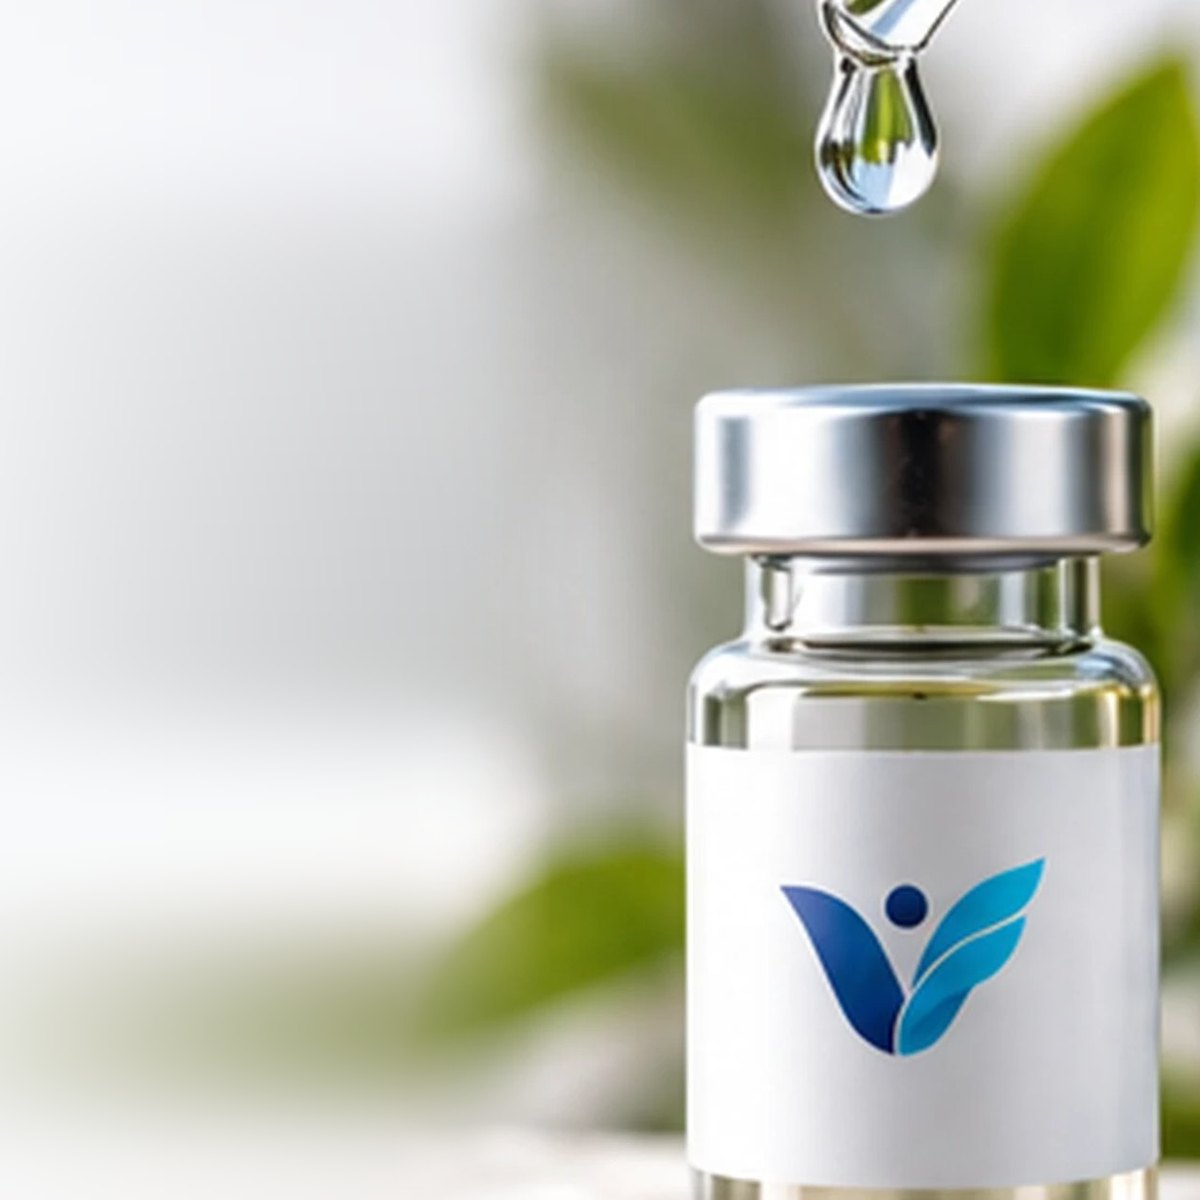
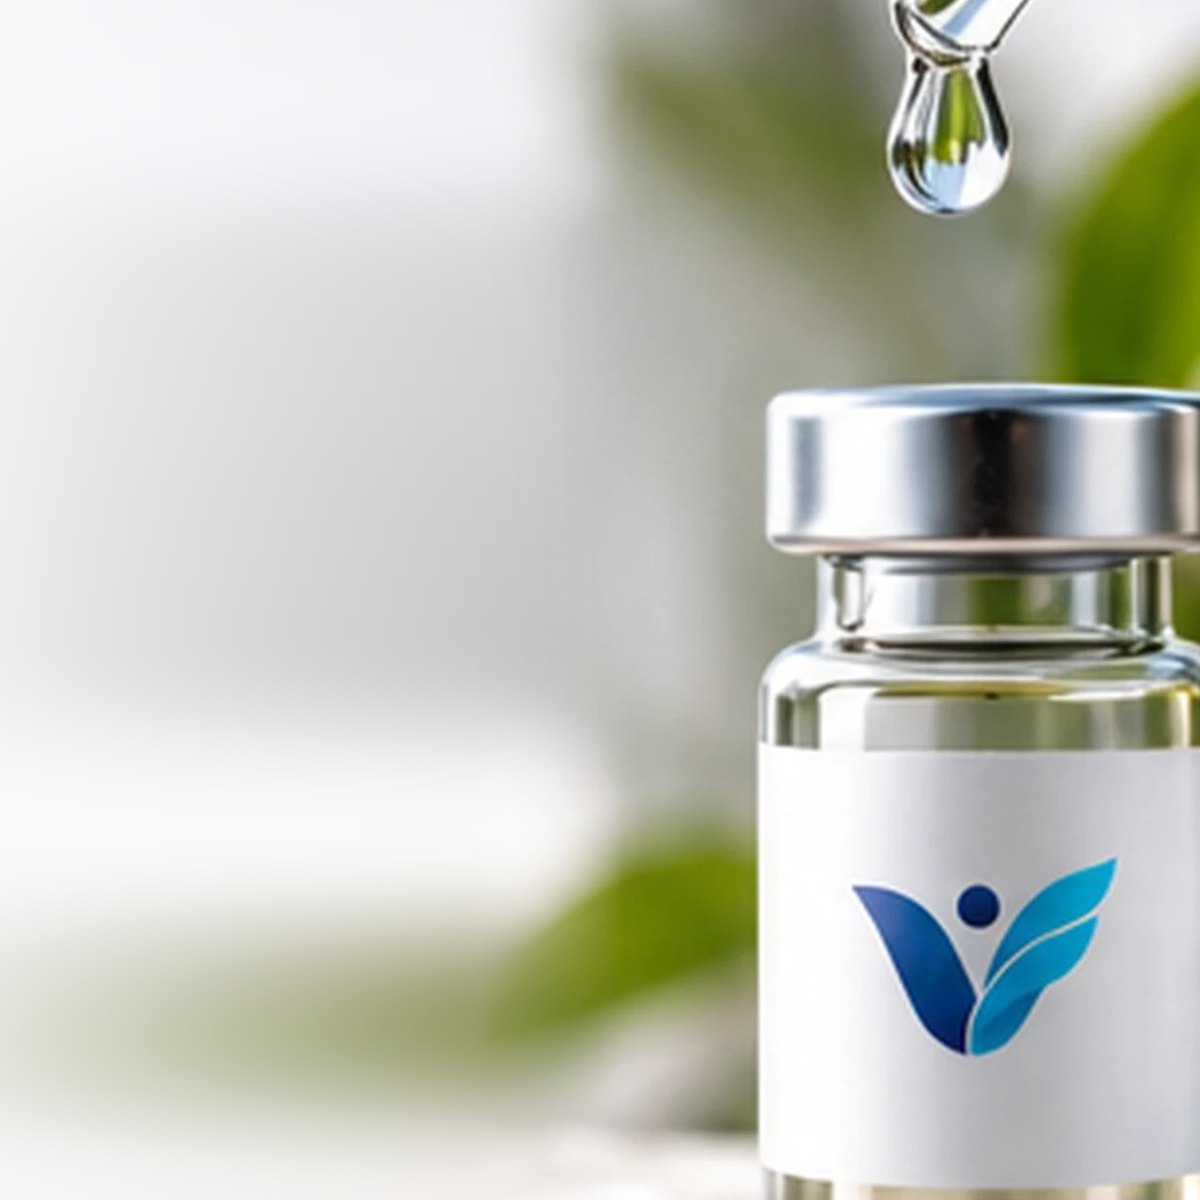
Cart 4: 560px wide, larger cover type, the support photo shown whole
- This email alone is 560px wide (the rest stay 600px); the cover, its
  Outlook frame and the footer follow the width
- Larger cover type: 44px headline, 28px line, 22px help topics in 64px
  rings; the vial moves further right so the copy stays clear of it and
  the drop
- The "Real People. Real Support." photo is shown whole, inside the
  panel's padding with rounded corners, instead of bleeding to the edge

Claude-Session: https://claude.ai/code/session_01D9wyYeR5ucDGRSLEYABcrG

diff --git a/lib/email-flows/render.ts b/lib/email-flows/render.ts
@@ -207,6 +207,8 @@ interface Kit {
   wideButton?: boolean;
   /** Extra phone-width rules a layout adds — e.g. desktop-sized type set back for phones. */
   phoneRules?: string[];
+  /** The email's width, when a layout sets a narrower one than the standard 600px. */
+  emailWidth?: number;
   m: (s: string) => string;
   href: (url: string) => string | null;
   img: (url: string) => string | null;
@@ -271,14 +273,14 @@ function badges(k: Kit, items: Highlight[], dark = false): string {
 }
 
 /** Vertical benefit list — each icon in an outlined circle (no fill), as in the designs. */
-function checklist(k: Kit, items: Highlight[], opts: { width?: number; large?: boolean; plain?: boolean } = {}): string {
+function checklist(k: Kit, items: Highlight[], opts: { width?: number; large?: boolean; plain?: boolean; big?: boolean } = {}): string {
   const list = items.map((h) => ({ ...h, label: k.m(h.label) })).filter((h) => h.label);
   if (!list.length) return '';
   // `plain`: the labels as written (sentence case), as in the questions design.
-  const ring = opts.plain ? 56 : opts.large ? 70 : 38;
-  const glyph = opts.plain ? 30 : opts.large ? 38 : 20;
+  const ring = opts.plain ? (opts.big ? 64 : 56) : opts.large ? 70 : 38;
+  const glyph = opts.plain ? (opts.big ? 34 : 30) : opts.large ? 38 : 20;
   // The labels' own column: narrow on the cover, so they wrap short beside the icons.
-  const labelWidth = opts.plain ? 210 : opts.large ? 200 : 0;
+  const labelWidth = opts.plain ? (opts.big ? 230 : 210) : opts.large ? 200 : 0;
   const cls = (name: string) => (opts.large ? ` class="${name}"` : '');
   // A set width makes longer labels wrap onto two lines, as in the cover designs.
   const width = opts.width ? ` width="${opts.width}"` : '';
@@ -295,7 +297,7 @@ function checklist(k: Kit, items: Highlight[], opts: { width?: number; large?: b
               </td></tr>
             </table>
           </td>
-          <td${cls('ef-check-label')} valign="middle"${labelWidth ? ` width="${labelWidth}"` : ''} style="${labelWidth ? `width: ${labelWidth}px; ` : ''}padding: ${opts.large ? '8px 0' : '6px 0'}; font-family: ${T.font}; ${opts.plain ? `font-size: 19px; font-weight: 600; letter-spacing: 0; line-height: 1.3; color: ${T.ink};` : `font-size: ${opts.large ? '17px' : '12px'}; font-weight: ${opts.large ? 800 : 700}; letter-spacing: 0.08em; line-height: 1.35; text-transform: uppercase; color: ${T.ink};`}">${escapeHtml(h.label)}</td>
+          <td${cls('ef-check-label')} valign="middle"${labelWidth ? ` width="${labelWidth}"` : ''} style="${labelWidth ? `width: ${labelWidth}px; ` : ''}padding: ${opts.large ? '8px 0' : '6px 0'}; font-family: ${T.font}; ${opts.plain ? `font-size: ${opts.big ? 22 : 19}px; font-weight: 600; letter-spacing: 0; line-height: 1.3; color: ${T.ink};` : `font-size: ${opts.large ? '17px' : '12px'}; font-weight: ${opts.large ? 800 : 700}; letter-spacing: 0.08em; line-height: 1.35; text-transform: uppercase; color: ${T.ink};`}">${escapeHtml(h.label)}</td>
         </tr>`,
         )
         .join('')}
@@ -303,7 +305,7 @@ function checklist(k: Kit, items: Highlight[], opts: { width?: number; large?: b
 }
 
 /** Side-by-side panel: copy on one side, a picture on the other. */
-function card(k: Kit, opts: { imageLeft?: boolean; showCode?: boolean; large?: boolean } = {}): string {
+function card(k: Kit, opts: { imageLeft?: boolean; showCode?: boolean; large?: boolean; containPic?: boolean } = {}): string {
   const s = k.step;
   const title = k.m(s.card_title);
   const body = k.m(s.card_body);
@@ -332,7 +334,10 @@ function card(k: Kit, opts: { imageLeft?: boolean; showCode?: boolean; large?: b
       ${linkHref ? `<p style="margin: ${opts.large ? '16px' : '12px'} 0 0;"><a href="${escapeHtml(linkHref)}" style="font-family: ${T.font}; font-size: ${opts.large ? '13px' : '11px'}; font-weight: 700; letter-spacing: 0.12em; text-transform: uppercase; color: ${T.ink}; text-decoration: none; white-space: nowrap;">${escapeHtml(k.m(s.card_link_label))} &rarr;</a></p>` : ''}
     </td>`;
   const pic = src
-    ? `<td${opts.large ? ' class="ef-card-pic"' : ''} width="${opts.large ? '50%' : '44%'}" valign="middle" style="padding: 0;"><img src="${escapeHtml(src)}" width="${opts.large ? 280 : 240}" alt="" style="display: block; width: 100%; height: auto; border: 0;" /></td>`
+    ? opts.containPic
+      // The whole picture, inside the panel's padding, with its own rounded corners.
+      ? `<td${opts.large ? ' class="ef-card-pic"' : ''} width="${opts.large ? '46%' : '42%'}" valign="middle" style="padding: 16px 0 16px 16px;"><img src="${escapeHtml(src)}" width="${opts.large ? 240 : 210}" alt="" style="display: block; width: 100%; height: auto; border: 0; border-radius: 8px;" /></td>`
+      : `<td${opts.large ? ' class="ef-card-pic"' : ''} width="${opts.large ? '50%' : '44%'}" valign="middle" style="padding: 0;"><img src="${escapeHtml(src)}" width="${opts.large ? 280 : 240}" alt="" style="display: block; width: 100%; height: auto; border: 0;" /></td>`
     : '';
   return `
     <table role="presentation" width="100%" cellpadding="0" cellspacing="0" border="0" style="background: ${T.panel}; border-radius: 10px; border-collapse: separate; overflow: hidden;">
@@ -372,7 +377,8 @@ function coverHero(k: Kit, inner: string, opts: { valign?: 'top' | 'bottom'; pad
   const s = k.step;
   const src = k.img(s.hero_image_url);
   const ratio = s.hero_image_ratio && s.hero_image_ratio > 0 ? s.hero_image_ratio : 0.6;
-  const h = Math.round(600 * ratio);
+  const w = k.emailWidth ?? 600;
+  const h = Math.round(w * ratio);
   const fallback = s.hero_text_tone === 'light' ? T.navy : '#DCE9F1';
   const valign = opts.valign ?? 'top';
   k.coverRatio = ratio;
@@ -381,7 +387,7 @@ function coverHero(k: Kit, inner: string, opts: { valign?: 'top' | 'bottom'; pad
     ? `background="${escapeHtml(src)}" style="background-color: ${fallback}; background-image: url('${escapeHtml(src)}'); background-size: cover; background-position: center top; background-repeat: no-repeat; height: ${h}px;"`
     : `style="background-color: ${fallback}; height: ${h}px;"`;
   return `<tr><td class="ef-cover${opts.phoneWash && src ? ' ef-cover-wash' : ''}${opts.cellClass ? ` ${opts.cellClass}` : ''}" ${bg} bgcolor="${fallback}" height="${h}" valign="${valign}">
-    <!--[if gte mso 9]><v:rect xmlns:v="urn:schemas-microsoft-com:vml" fill="true" stroke="false" style="width:600px;height:${h}px;"><v:fill type="frame"${src ? ` src="${escapeHtml(src)}"` : ''} color="${fallback}" /><v:textbox inset="0,0,0,0"><![endif]-->
+    <!--[if gte mso 9]><v:rect xmlns:v="urn:schemas-microsoft-com:vml" fill="true" stroke="false" style="width:${w}px;height:${h}px;"><v:fill type="frame"${src ? ` src="${escapeHtml(src)}"` : ''} color="${fallback}" /><v:textbox inset="0,0,0,0"><![endif]-->
     <table role="presentation" width="100%" cellpadding="0" cellspacing="0" border="0"${opts.fill ? ` height="${h}" class="ef-cover-fill" style="height: ${h}px;"` : ''}>
       <tr><td${opts.padClass ? ` class="${opts.padClass}"` : ''} valign="${valign}" style="padding: ${opts.padding ?? '36px 32px'};">${inner}</td></tr>
     </table>
@@ -878,12 +884,14 @@ function cartQuestionsLayout(k: Kit): string {
     // As designed: "Have questions?" and the line under it at the top left of
     // the photo, the help topics down its left side (the product on the
     // right); then the cart panel with the button, and the support panel.
+    // A narrower email than the rest, as asked for this one.
+    k.emailWidth = 560;
     const c = overlayTone(k);
     const headline = k.m(s.headline);
     const sub = k.m(s.subheadline);
     (k.phoneRules ??= []).push(
       '.ef-q-pad { padding: 28px 20px 24px !important; }',
-      '.ef-q-h1 { font-size: 32px !important; }',
+      '.ef-q-h1 { font-size: 28px !important; }',
       '.ef-q-sub { font-size: 17px !important; }',
       '.ef-check-icon { width: 40px !important; padding: 5px 12px 5px 0 !important; }',
       '.ef-check-ring { width: 40px !important; height: 40px !important; border-radius: 20px !important; }',
@@ -895,15 +903,15 @@ function cartQuestionsLayout(k: Kit): string {
     return [
       coverHero(
         k,
-        `${headline ? `<h1 class="ef-q-h1" style="font-family: ${T.display}; font-size: 42px; font-weight: 800; line-height: 1.05; color: ${c.heading}; margin: 0 0 10px; ${c.shadow}">${escapeHtml(headline)}</h1>` : ''}
-         ${sub ? `<p class="ef-q-sub" style="font-family: ${T.font}; font-size: 24px; line-height: 1.35; color: ${c.heading}; margin: 0; ${c.shadow}">${escapeHtml(sub)}</p>` : ''}
+        `${headline ? `<h1 class="ef-q-h1" style="font-family: ${T.display}; font-size: 44px; font-weight: 800; line-height: 1.05; letter-spacing: -0.01em; color: ${c.heading}; margin: 0 0 10px; ${c.shadow}">${escapeHtml(headline)}</h1>` : ''}
+         ${sub ? `<p class="ef-q-sub" style="font-family: ${T.font}; font-size: 28px; line-height: 1.3; color: ${c.heading}; margin: 0; ${c.shadow}">${escapeHtml(sub)}</p>` : ''}
          <div style="height: 22px; line-height: 22px; font-size: 0;">&nbsp;</div>
-         ${checklist(k, s.highlights, { large: true, plain: true })}
+         ${checklist(k, s.highlights, { large: true, plain: true, big: true })}
          ${paragraphs(k.m(s.body), c.body)}`,
         { padding: '38px 32px 26px', phoneWash: 'left', padClass: 'ef-q-pad' },
       ),
       pad(s.show_cart ? cartPanel(k, { center: true, large: true }) : button(k, s.cta_label, s.cta_url, { wide: true, large: true }), '20px 20px 18px'),
-      pad(card(k, { imageLeft: true, large: true }), '0 20px 24px'),
+      pad(card(k, { imageLeft: true, large: true, containPic: true }), '0 20px 24px'),
     ].join('');
   }
   return [
@@ -1023,7 +1031,7 @@ ${preheader ? `<div style="display: none; max-height: 0; overflow: hidden; mso-h
 <table role="presentation" width="100%" cellpadding="0" cellspacing="0" border="0" style="width: 100%; border-collapse: collapse; background: ${T.paper};">
   <tr>
     <td align="center" style="padding: 28px 10px;">
-      <table role="presentation" width="600" cellpadding="0" cellspacing="0" border="0" style="width: 100%; max-width: 600px; border-collapse: separate; background: ${T.card}; border: 1px solid ${T.border}; border-radius: ${T.radius}; overflow: hidden;">
+      <table role="presentation" width="${k.emailWidth ?? 600}" cellpadding="0" cellspacing="0" border="0" style="width: 100%; max-width: ${k.emailWidth ?? 600}px; border-collapse: separate; background: ${T.card}; border: 1px solid ${T.border}; border-radius: ${T.radius}; overflow: hidden;">
         <tr>
           <td style="padding: 18px 20px 16px; border-bottom: 1px solid ${T.border};">
             <table role="presentation" width="100%" cellpadding="0" cellspacing="0" border="0">
@@ -1040,7 +1048,7 @@ ${preheader ? `<div style="display: none; max-height: 0; overflow: hidden; mso-h
         ${content}
         <tr><td style="padding: 0 0 8px;"></td></tr>
       </table>
-      <table role="presentation" width="600" cellpadding="0" cellspacing="0" border="0" style="width: 100%; max-width: 600px;">
+      <table role="presentation" width="${k.emailWidth ?? 600}" cellpadding="0" cellspacing="0" border="0" style="width: 100%; max-width: ${k.emailWidth ?? 600}px;">
         <tr>
           <td align="center" style="padding: 20px 24px 6px; font-family: ${T.font}; font-size: 11px; line-height: 1.6; color: ${T.faint};">
             ${footerLines.map((l) => `<p style="margin: 0 0 6px;">${l}</p>`).join('')}

diff --git a/lib/email-flows/email-flows.test.ts b/lib/email-flows/email-flows.test.ts
@@ -595,12 +595,18 @@ test('cart 4: the help topics over the photo as written, then the cart and suppo
   const html = renderFlowEmail(dflt('cart', 4), cartCtx()).html;
   const cover = coverOf(html);
   for (const text of ['Have Questions?', 'We&#39;ve Got You Covered.', 'Product information', 'Ordering &amp; payments']) assert.ok(cover.includes(text), text);
-  assert.match(cover, /class="ef-check-label"[^>]*font-size: 19px; font-weight: 600; letter-spacing: 0;/, 'sentence case, not small caps');
+  assert.match(cover, /class="ef-check-label"[^>]*font-size: 22px; font-weight: 600; letter-spacing: 0;/, 'sentence case, not small caps');
+  assert.match(cover, /class="ef-q-h1" style="[^"]*font-size: 44px;/);
+  // This email alone is narrower: 560px, the cover sized to match.
+  assert.match(html, /<table role="presentation" width="560"[^>]*max-width: 560px; border-collapse: separate;/);
+  assert.match(html, /style="width:560px;height:560px;"/);
+  assert.match(renderFlowEmail(dflt('cart', 2), cartCtx()).html, /<table role="presentation" width="600"[^>]*max-width: 600px; border-collapse: separate;/, 'the others stay 600px');
   assert.ok(!/class="ef-check-label"[^>]*text-transform: uppercase/.test(cover));
   const after = html.slice(html.indexOf('</v:rect>'));
   assert.ok(after.indexOf('Your cart is still saved.') < after.indexOf('Return to Cart'));
   assert.ok(after.indexOf('Return to Cart') < after.indexOf('Real People. Real Support.'));
-  assert.match(after, /support-agent\.jpg/);
+  // The support photo whole, inside the panel's padding, with rounded corners.
+  assert.match(after, /<td class="ef-card-pic" width="46%" valign="middle" style="padding: 16px 0 16px 16px;"><img src="[^"]*support-agent\.jpg"[^>]*border-radius: 8px;/);
   assert.ok(html.includes('.ef-card-pic { width: 36% !important; }'));
 });
 

diff --git a/docs/changelog/2026-10-15-email-flows.md b/docs/changelog/2026-10-15-email-flows.md
@@ -285,7 +285,10 @@ down the left as written (sentence case, in outlined rings). Below come the
 large cart panel ("Your cart is still saved.", the items, a wide Return to
 Cart) and a larger "Real People. Real Support." panel with the support
 agent. On phones the large panels give the picture less width, so their
-titles don't break a word to a line.
+titles don't break a word to a line. Cart 4 alone is 560px wide (the rest are 600px),
+with larger cover type (44px headline, 28px line, 22px topics in 64px
+rings) and the vial moved further right to make room. The support photo is
+shown whole, inside the panel's padding with rounded corners.
 
 **Bold benefits on the covers** (Welcome 2, Cart 2): the labels are extra
 bold, and the icons use a bold set (`*-navy-bold.png`, made from the navy
